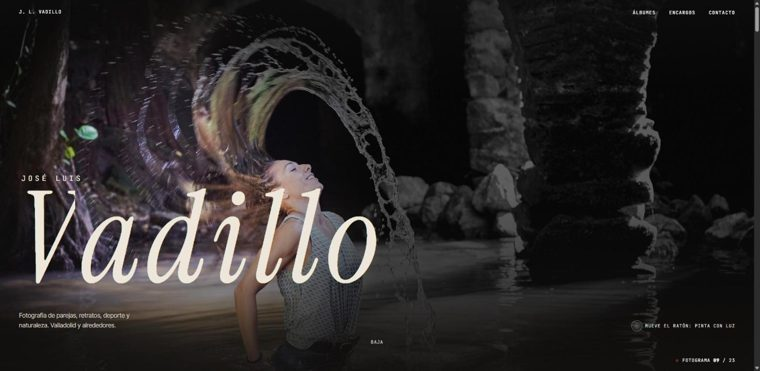
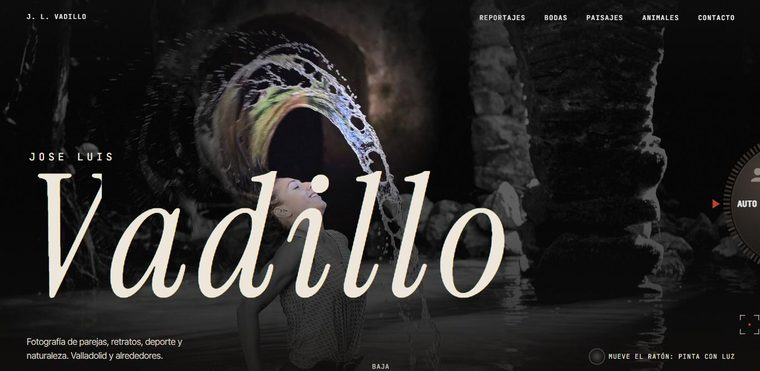
Trabajos: el fotógrafo ya en joseluisvadillo.es (captura nueva, nombre sin tilde, sube sus fotos él)

diff --git a/index.html b/index.html
@@ -373,11 +373,11 @@ footer a{color:var(--muted)}
           <article class="item">
             <span class="etiq real">Web personal</span>
             <div class="num"><b>03</b> / 04 · Valladolid</div>
-            <h3>José Luis Vadillo, fotógrafo</h3>
+            <h3>Jose Luis Vadillo, fotógrafo</h3>
             <p>Una web que funciona como un cuarto oscuro: mueves el ratón y pintas la foto con luz.</p>
-            <ul><li>Álbumes con visor a pantalla completa</li><li>Animaciones hechas a medida</li><li>Pensada para enseñar en el móvil</li></ul>
-            <img class="movil-img" src="img/trabajos/fotografo-m.jpg" width="760" height="371" alt="Web del fotógrafo José Luis Vadillo" loading="lazy" style="display:none;border-radius:12px;border:1px solid var(--line2);margin-bottom:12px">
-            <a href="https://c4rr0.github.io/fotografo/" data-ev="trabajo-fotografo">Ver la web →</a>
+            <ul><li>En su propio dominio: joseluisvadillo.es</li><li>Sube sus fotos él mismo desde el móvil</li><li>Animaciones hechas a medida</li></ul>
+            <img class="movil-img" src="img/trabajos/fotografo-m.jpg" width="760" height="371" alt="Web del fotógrafo Jose Luis Vadillo" loading="lazy" style="display:none;border-radius:12px;border:1px solid var(--line2);margin-bottom:12px">
+            <a href="https://joseluisvadillo.es/" data-ev="trabajo-fotografo">Ver la web →</a>
           </article>
           <article class="item">
             <span class="etiq demo">Demo para probar</span>
@@ -735,7 +735,7 @@ rellena();
 if (conGSAP) ScrollTrigger.create({ trigger: "#tu-negocio .banco", start: "top 65%", once: true, onEnter: () => setTimeout(() => { if (!conEngrana) toggleE(); }, 900) });
 
 /* ---------- TRABAJOS: la rueda ---------- */
-const imgs = ["fersaman", "iker", "fotografo", "autoescuela"], dominios = ["engranaia.com/fersaman", "engranaia.com/iker", "c4rr0.github.io/fotografo", "engranaia.com/demo/autoescuela"];
+const imgs = ["fersaman", "iker", "fotografo", "autoescuela"], dominios = ["engranaia.com/fersaman", "engranaia.com/iker", "joseluisvadillo.es", "engranaia.com/demo/autoescuela"];
 const ejeT = $("#ejeT"), items = $$("#fichaT .item"), puntos = $$("#puntosT i");
 const PASO = 32; // grados entre piezas
 const R = () => Math.min(innerHeight * 1.05, 760);
